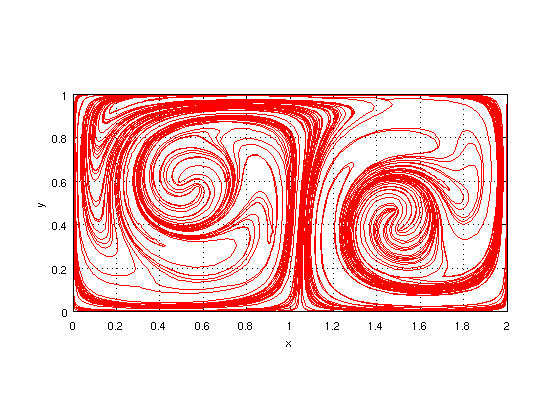
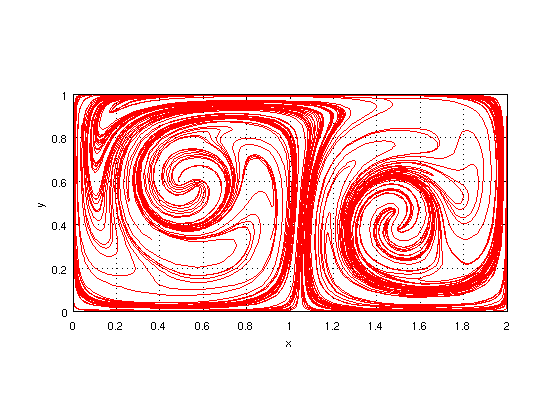
Update documentation

diff --git a/html/lcs_user_guide.html b/html/lcs_user_guide.html
@@ -92,6 +92,7 @@ strainline = set_strainline_hausdorff_distance(0,strainline);
 doubleGyre = strain_lcs_script(doubleGyre);
 </pre>
 <pre class="codeoutput">
+Geodesic deviation statistics:
 	minimum = 1.73995e-50
 	maximum = 2.01744e+21
 	mean = 2.35442e+18
@@ -102,17 +103,35 @@ Number of LCS segments: 45
 <img vspace="5" hspace="5" src="lcs_user_guide_03.png" alt="">
 <p>The strainlines appear quite jagged. To fix this, the flow resolution is increased and the ODE integration error tolerance decreased.</p>
 <pre class="codeinput">
-doubleGyre.flow = set_flow_resolution(uint64([2 1]*100),doubleGyre.flow);
+doubleGyre.flow = set_flow_resolution(uint64([2 1]*500),doubleGyre.flow);
 doubleGyre.strainline = set_strainline_ode_solver_options(odeset(<span class="string">'relTol'</span>,1e-6),doubleGyre.strainline);
 doubleGyre = strain_lcs_script(doubleGyre);
+</pre>
+<pre class="codeoutput">
+Geodesic deviation statistics:
+	minimum = 1.12418e-49
+	maximum = 1.02952e+15
+	mean = 1.3878e+12
+	median = 4.00551e-05
+Number of strainline segments: 50
+Number of LCS segments: 50
 </pre>
 <img vspace="5" hspace="5" src="lcs_user_guide_04.png" alt="">
 <p>Filtering parameters are adjusted to pick out significant LCSs</p>
 <pre class="codeinput">
 doubleGyre.strainline = set_strainline_geodesic_deviation_tol(.05,doubleGyre.strainline);
 doubleGyre.strainline = set_strainline_length_tol(.5,doubleGyre.strainline);
-doubleGyre.strainline = set_strainline_hausdorff_distance(.25,doubleGyre.strainline);
+doubleGyre.strainline = set_strainline_hausdorff_distance(.5,doubleGyre.strainline);
 doubleGyre = strain_lcs_script(doubleGyre);
+</pre>
+<pre class="codeoutput">
+Geodesic deviation statistics:
+	minimum = 1.12418e-49
+	maximum = 1.02952e+15
+	mean = 1.3878e+12
+	median = 4.00551e-05
+Number of strainline segments: 191
+Number of LCS segments: 9
 </pre>
 <img vspace="5" hspace="5" src="lcs_user_guide_05.png" alt="">
 

diff --git a/eig_cgStrain.m b/eig_cgStrain.m
@@ -79,7 +79,7 @@ switch method.name
 
         if verbose.progress
             progressBar = ConsoleProgressBar;
-            progressBar.setText(mfilename)
+            progressBar.setText([mfilename,' ODE'])
             progressBar.setTextPosition('left')
             progressBar.setElapsedTimeVisible(1)
             progressBar.setRemainedTimeVisible(1)
@@ -163,7 +163,7 @@ cgStrain = cell(nPosition,1);
 
 if verbose.progress
     progressBar = ConsoleProgressBar;
-    progressBar.setText(mfilename)
+    progressBar.setText([mfilename,' EIG'])
     progressBar.setTextPosition('left')
     progressBar.setElapsedTimeVisible(1)
     progressBar.setRemainedTimeVisible(1)
